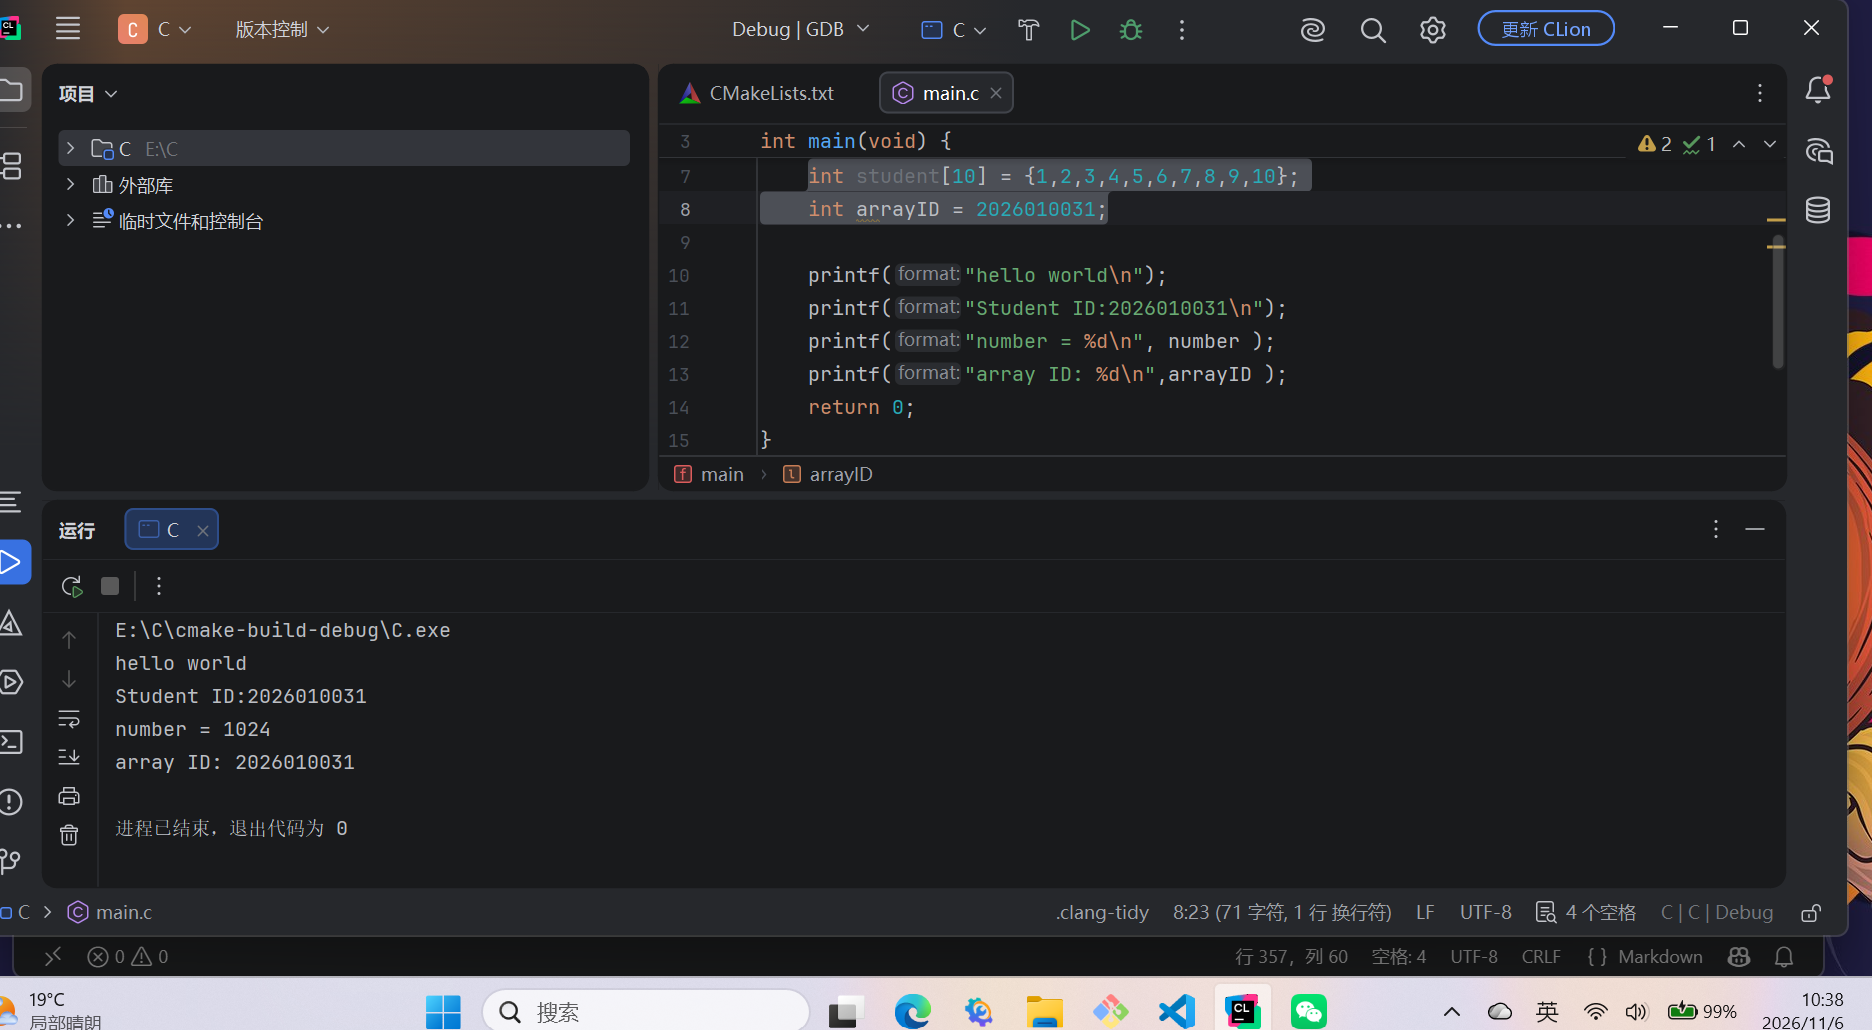
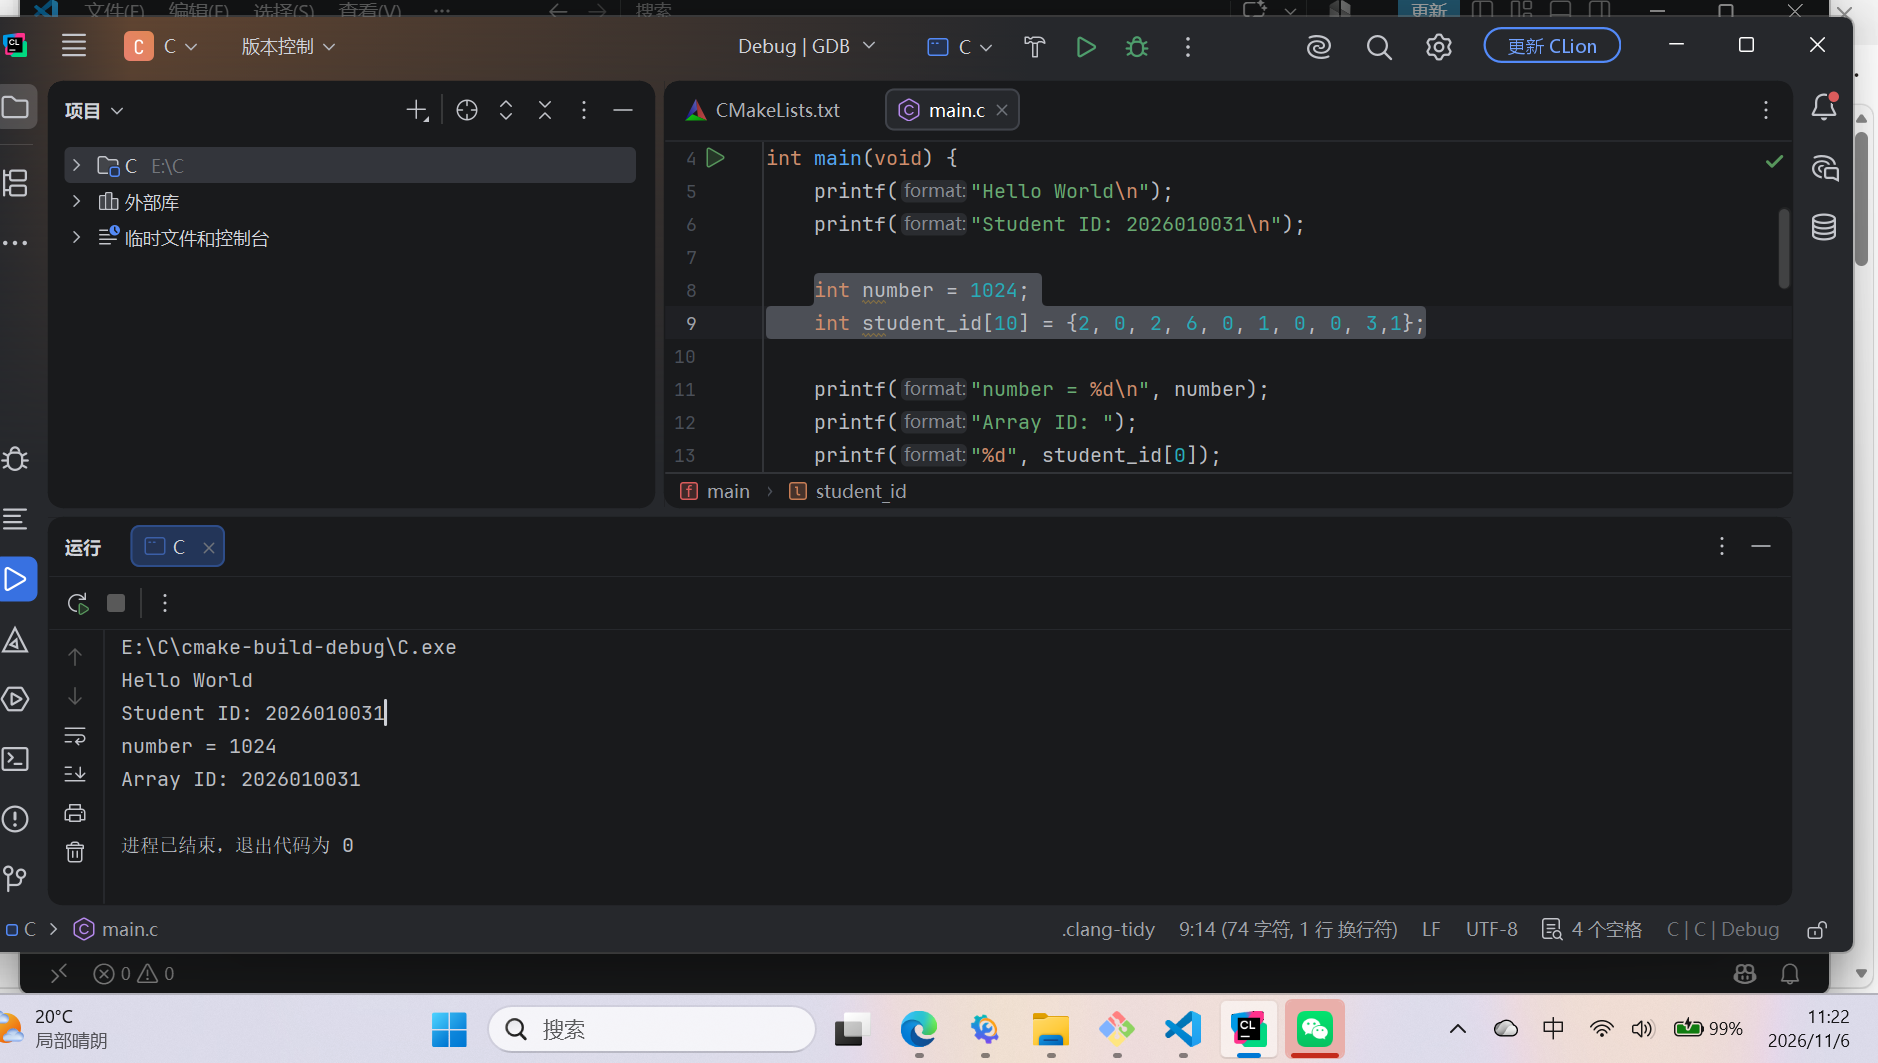
2026010031

diff --git a/2026010031周德帅/Lab7/lab7_basics.c b/2026010031周德帅/Lab7/lab7_basics.c
@@ -3,10 +3,10 @@
 /* 示例学号为 2026010099。练习时替换字符串和数组中的学号。 */
 int main(void) {
     printf("Hello World\n");
-    printf("Student ID: 2026010099\n");
+    printf("Student ID: 2026010031\n");
 
-    int number = 7;
-    int student_id[10] = {2, 0, 2, 6, 0, 1, 0, 0, 9, 9};
+    int number = 1024;
+    int student_id[10] = {2, 0, 2, 6, 0, 1, 0, 0, 3，1};
 
     printf("number = %d\n", number);
     printf("Array ID: ");

diff --git a/2026010031周德帅/Lab7/Lab7.md b/2026010031周德帅/Lab7/Lab7.md
@@ -315,10 +315,11 @@ Step Over 会执行当前语句，然后在后续位置暂停。对本次的 `pr
 粘贴本人最终程序的完整四行输出：
 
 ```text
-hello world
-Student ID:2026010031
+Hello World
+Student ID: 2026010031
 number = 1024
-array ID: 2026010031
+Array ID: 2026010031
+
 ```
 
 填写本人使用的变量与数组数据：
@@ -326,17 +327,17 @@ array ID: 2026010031
 | 项目 | 本人记录 |
 | :--- | :--- |
 | `int` 变量名称及初始值 | number = 1024 |
-| 学号数组名称及十个初始值，按顺序用逗号分隔 | 2026010031,1,2,,3,4,5,6,7,8,9,10|
+| 学号数组名称及十个初始值，按顺序用逗号分隔 | 2026010031,2,0,2,6,0,1,0,0,3,1|
 | 直接输出的学号与数组输出的学号是否一致 | 一致 |
 
 ### 4.3 调试观察记录
 
 | 观察项目 | 本人记录 |
 | :--- | :--- |
-| 设置断点的源码语句 | int student[10] = {1,2,3,4,5,6,7,8,9,10}; |
+| 设置断点的源码语句 | int student[10] = {2,0,2,6,0,1,0,0,3,1}; |
 | 整数变量初始化完成后的高亮语句及变量值 | 高亮：int number = 1024  变量：number = 1024 |
-| 数组初始化完成后，下标 `0` 和下标 `9` 的值 | 1,10 |
-| 对一条 `printf` 执行 Step Over 前后的高亮语句 |int student[10] = {1,2,3,4,5,6,7,8,9,10};   int arrayID = 2026010031;|
+| 数组初始化完成后，下标 `0` 和下标 `9` 的值 |2,1 |
+| 对一条 `printf` 执行 Step Over 前后的高亮语句 |int number = 1024;    int student_id[10] = {2, 0, 2, 6, 0, 1, 0, 0, 3,1};|
 
 记录高亮语句时填写实际源码内容即可，不要求固定行号。数组元素和整数变量值应在对应初始化完成后记录。
 
